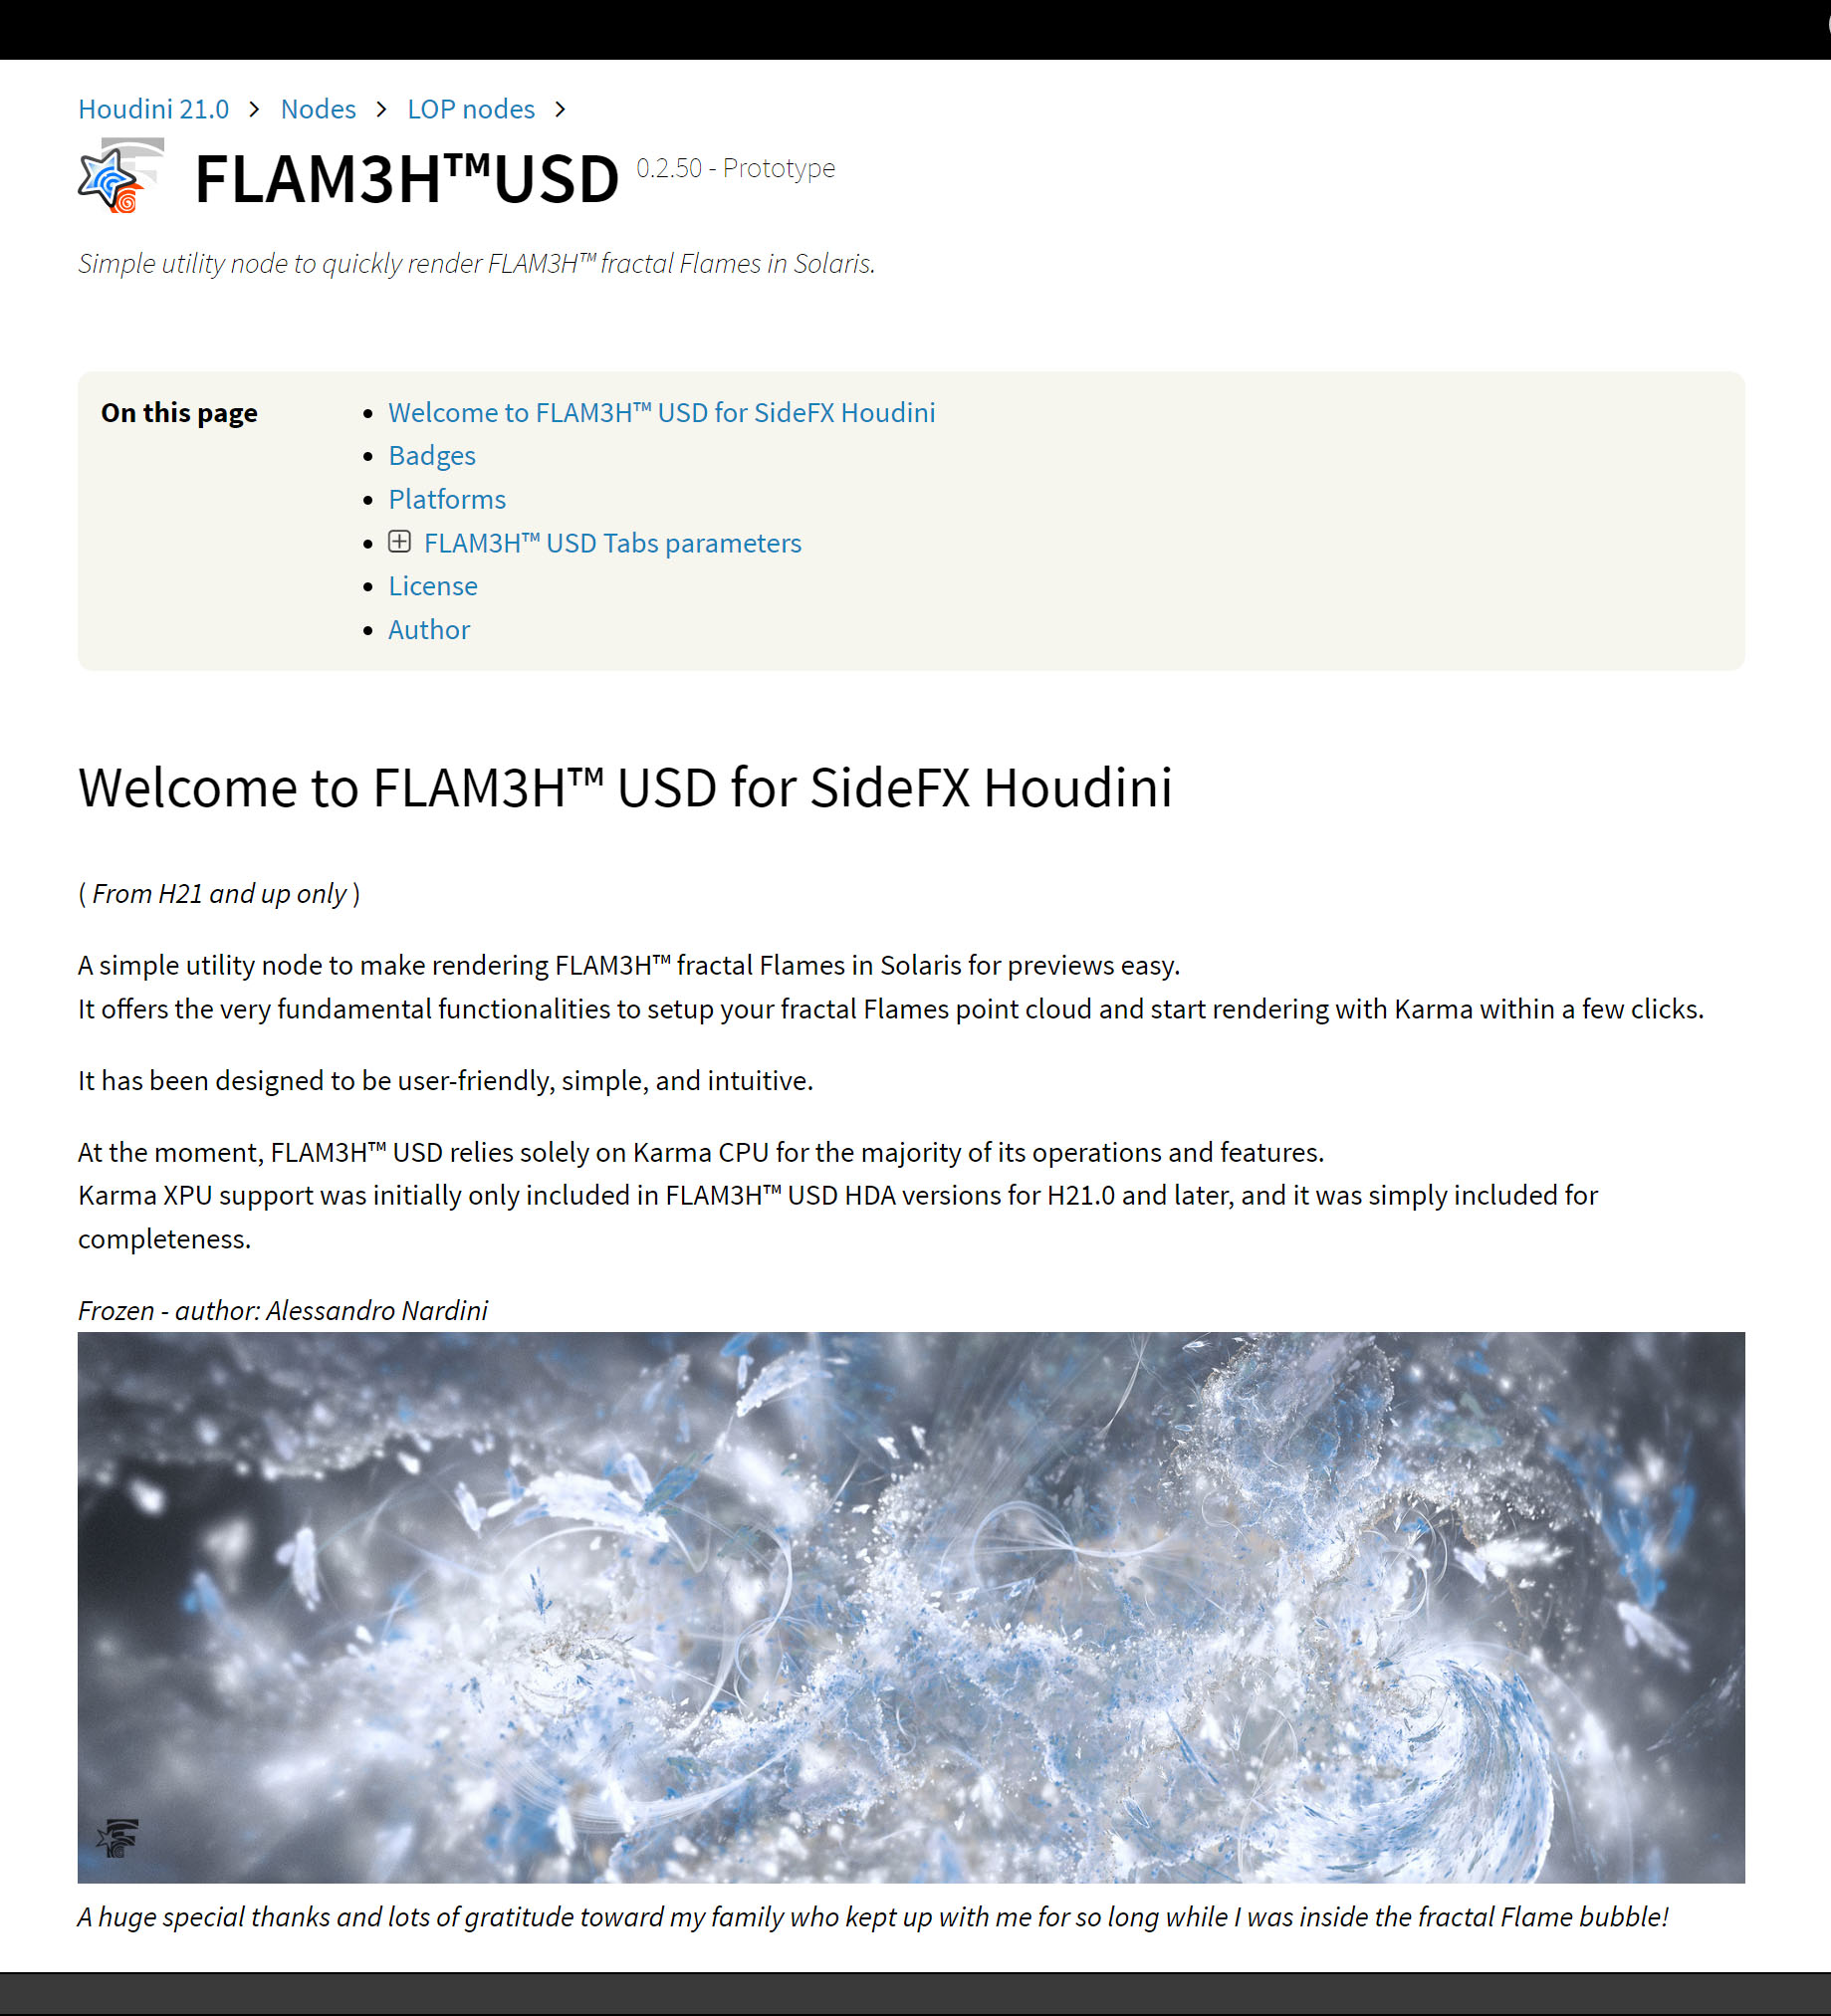
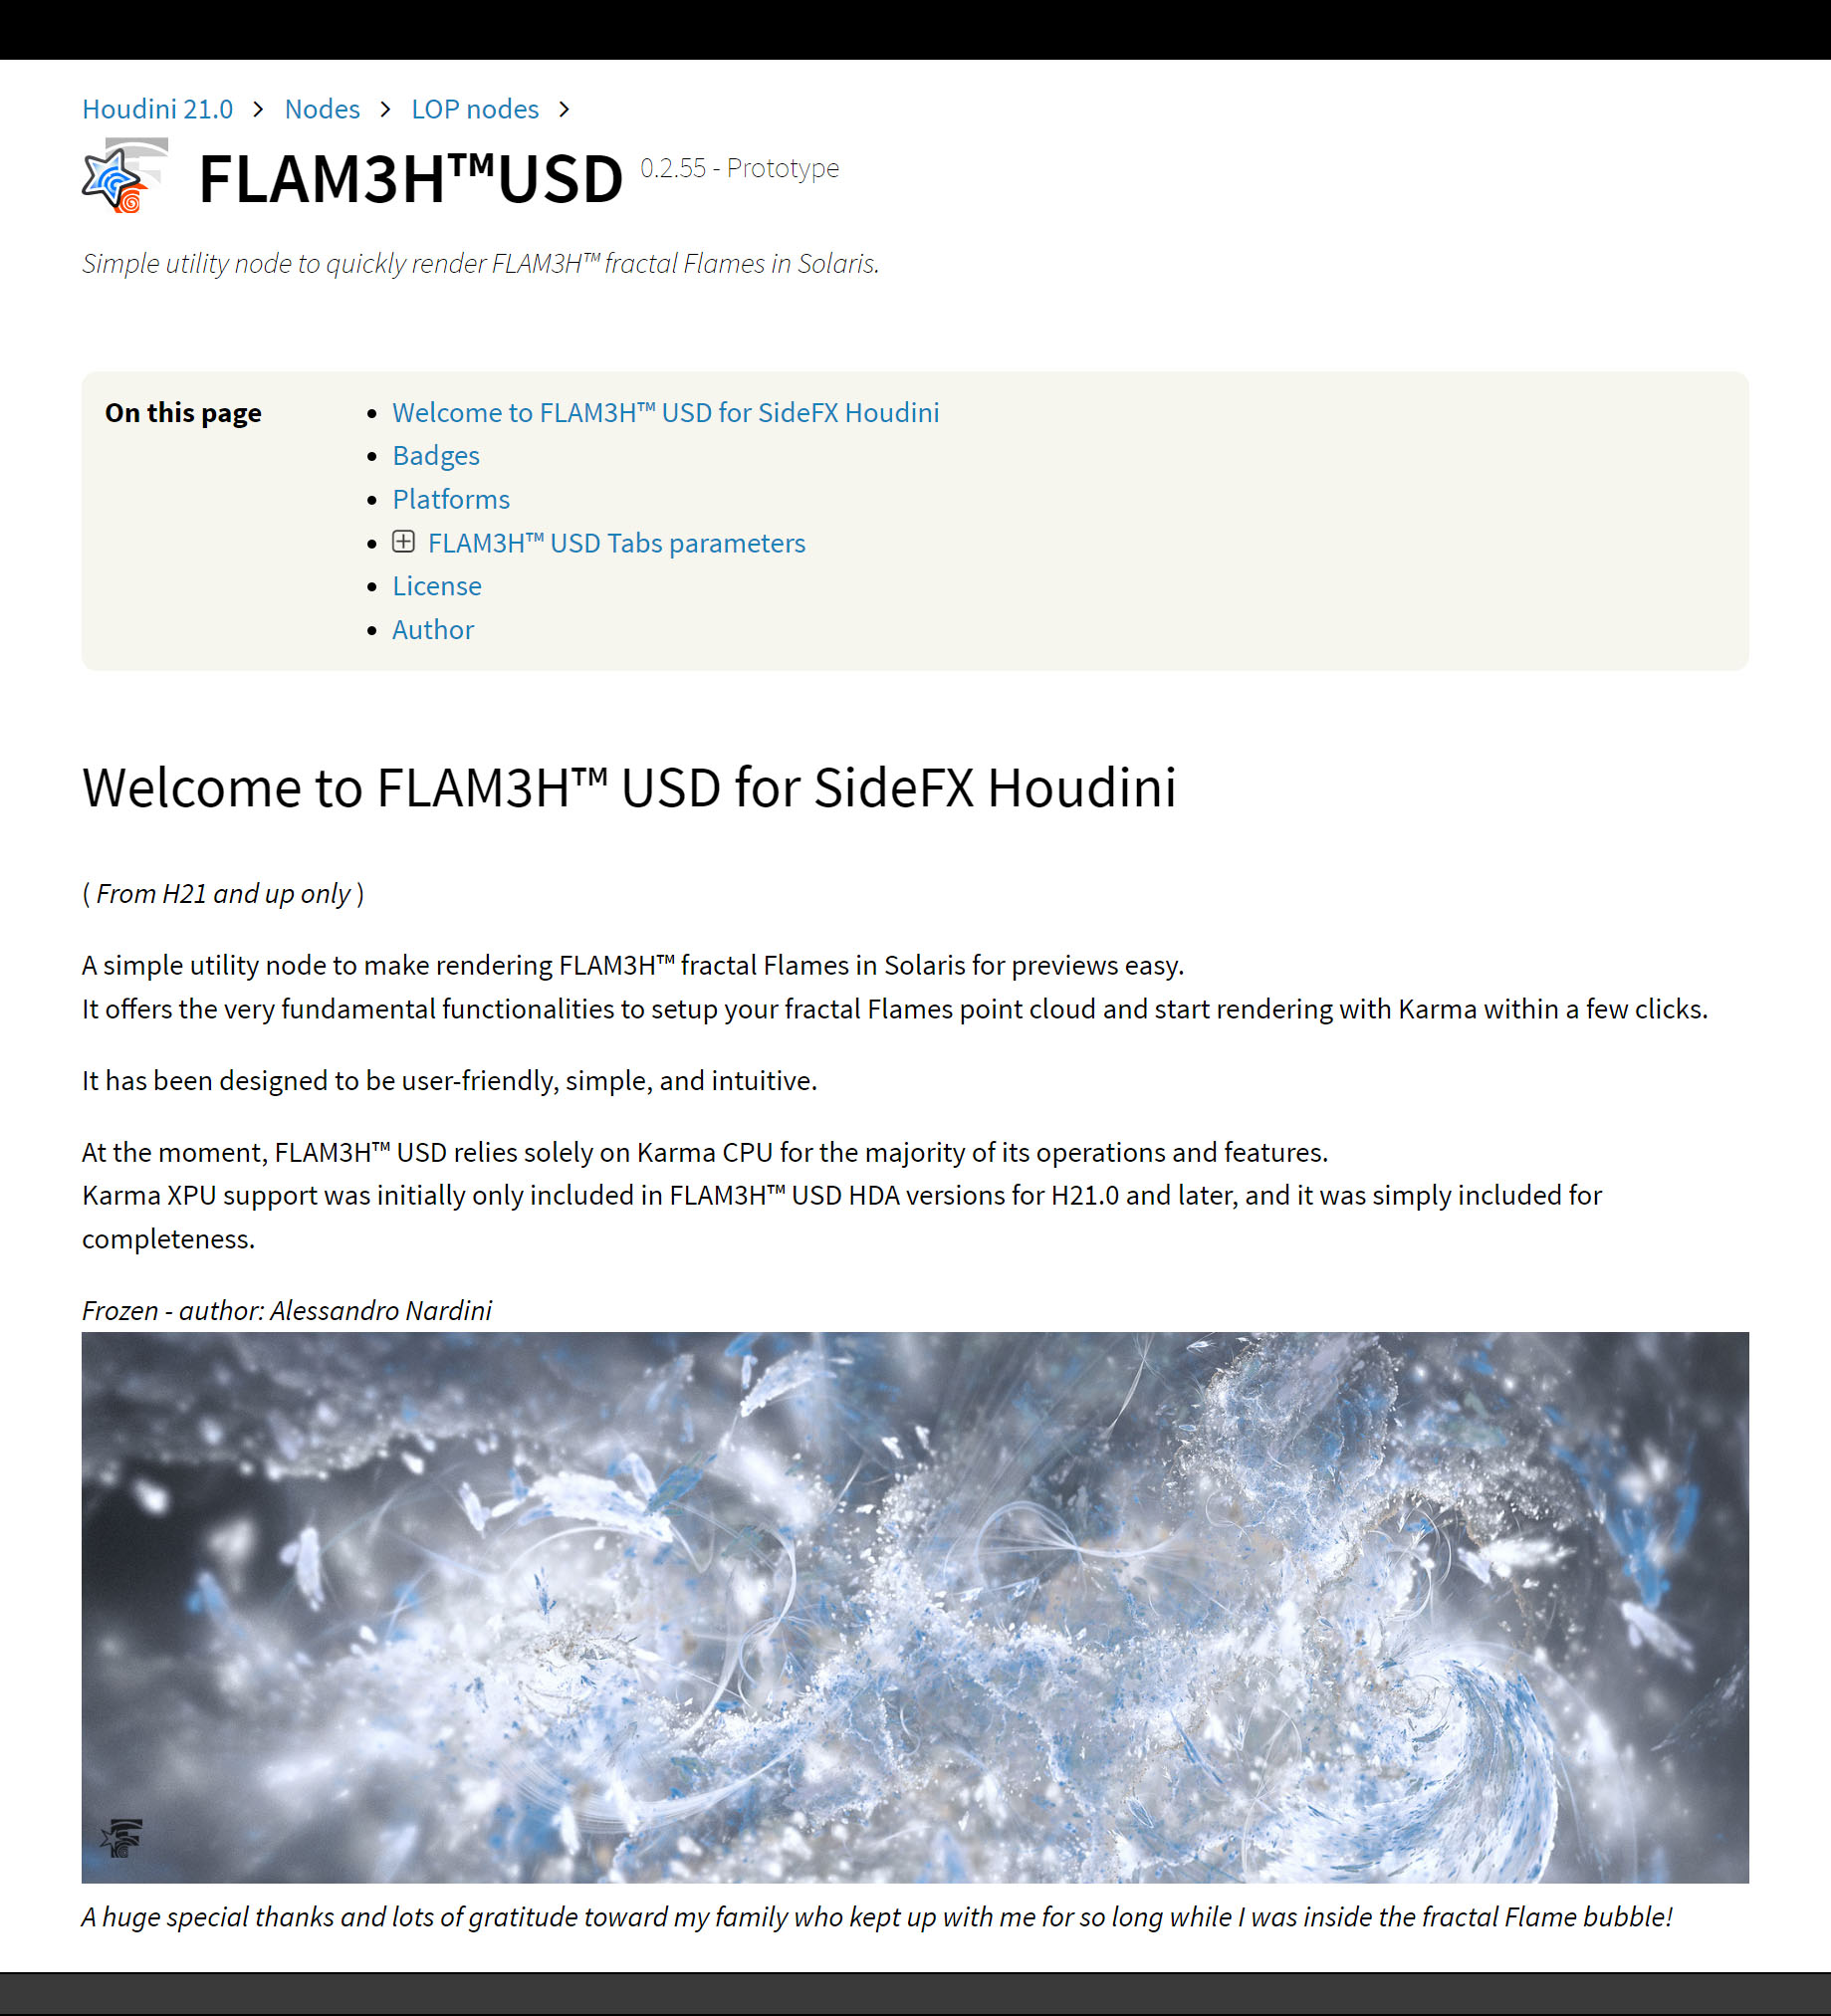
F3H-216 small update to the docs and some formatting improvements

diff --git a/src/py__3_11/py_flam3usd__3_11.py b/src/py__3_11/py_flam3usd__3_11.py
@@ -2522,8 +2522,8 @@ class flam3husd_about_utils
         # year = datetime.now().strftime("%Y")
         
         flam3h_author: str = f"AUTHOR: {__author__}"
-        flam3h_cvex_version: str = f"CODE: vex H{flam3husd_scripts.flam3husd_h_versions_build_data(__h_versions__, True)}"
-        flam3h_python_version: str = f"Python {__py_version__}"
+        flam3h_cvex_version: str = f"CODE: vex H{flam3husd_scripts.flam3husd_h_versions_build_data(flam3husd_general_utils.houdini_version(2), True)}"
+        flam3h_python_version: str = f"python {__py_version__}"
         flam3h_houdini_version: str = f"VERSION: {__version__} - {__status__} :: ({__license__})"
         Implementation_build: str = f"{flam3h_author}\n{flam3h_houdini_version}\n{flam3h_cvex_version}, {flam3h_python_version}\n{__copyright__}"
         

diff --git a/src/py__3_11/py_flam3usd__3_11_H21_UP.py b/src/py__3_11/py_flam3usd__3_11_H21_UP.py
@@ -2552,8 +2552,8 @@ class flam3husd_about_utils
         # year = datetime.now().strftime("%Y")
         
         flam3h_author: str = f"AUTHOR: {__author__}"
-        flam3h_cvex_version: str = f"CODE: vex H{flam3husd_scripts.flam3husd_h_versions_build_data(__h_versions__, True)}"
-        flam3h_python_version: str = f"Python {__py_version__}"
+        flam3h_cvex_version: str = f"CODE: vex H{flam3husd_scripts.flam3husd_h_versions_build_data(flam3husd_general_utils.houdini_version(2), True)}"
+        flam3h_python_version: str = f"python {__py_version__}"
         flam3h_houdini_version: str = f"VERSION: {__version__} - {__status__} :: ({__license__})"
         Implementation_build: str = f"{flam3h_author}\n{flam3h_houdini_version}\n{flam3h_cvex_version}, {flam3h_python_version}\n{__copyright__}"
         

diff --git a/src/py__3_7/py_flam3usd__3_7.py b/src/py__3_7/py_flam3usd__3_7.py
@@ -2423,8 +2423,8 @@ class flam3husd_about_utils
         # year = datetime.now().strftime("%Y")
         
         flam3h_author: str = f"AUTHOR: {__author__}"
-        flam3h_cvex_version: str = f"CODE: vex H{flam3husd_scripts.flam3husd_h_versions_build_data(__h_versions__, True)}"
-        flam3h_python_version: str = f"Python {__py_version__}"
+        flam3h_cvex_version: str = f"CODE: vex H{flam3husd_scripts.flam3husd_h_versions_build_data(flam3husd_general_utils.houdini_version(2), True)}"
+        flam3h_python_version: str = f"python {__py_version__}"
         flam3h_houdini_version: str = f"VERSION: {__version__} - {__status__} :: ({__license__})"
         Implementation_build: str = f"{flam3h_author}\n{flam3h_houdini_version}\n{flam3h_cvex_version}, {flam3h_python_version}\n{__copyright__}"
         

diff --git a/src/F3HUSD_PY_PARM_H205_to_H21_UP.md b/src/F3HUSD_PY_PARM_H205_to_H21_UP.md
@@ -90,7 +90,7 @@ import toolutils
 
 # Set some HDA infos
 __v__ = 0
-__version__ = "0.2.50"
+__version__ = "0.2.55"
 __status__ = "Prototype"
 # Note:
 # The intgers contained into this __h_versions__ tuple must be Houdini version numbers composed of 3 digits:
@@ -203,7 +203,7 @@ import toolutils
 
 # Set some HDA infos
 __v__ = 0
-__version__ = "0.2.46"
+__version__ = "0.2.52"
 __status__ = "Prototype"
 # Note:
 # The intgers contained into this __h_versions__ tuple must be Houdini version numbers composed of 3 digits:

diff --git a/src/F3HUSD_PY_PARM_H19_to_H20.md b/src/F3HUSD_PY_PARM_H19_to_H20.md
@@ -90,7 +90,7 @@ import toolutils
 
 # Set some HDA infos
 __v__ = 0
-__version__ = "0.2.46"
+__version__ = "0.2.48"
 __status__ = "Prototype"
 __h_versions__: tuple = (190, 195, 200)
 __range_type__: bool = True # True for closed range. False for open range